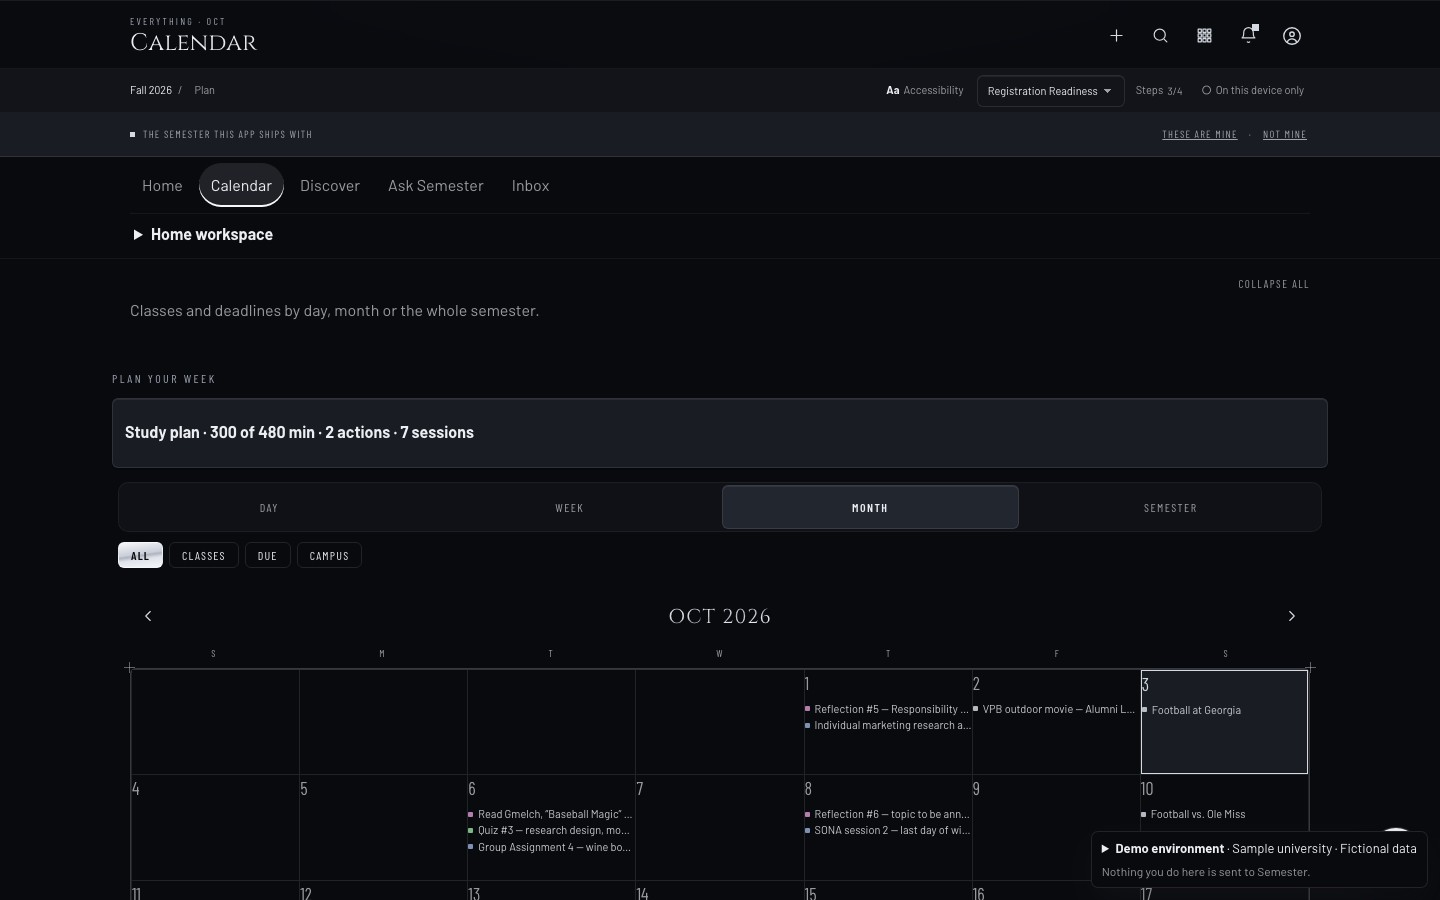
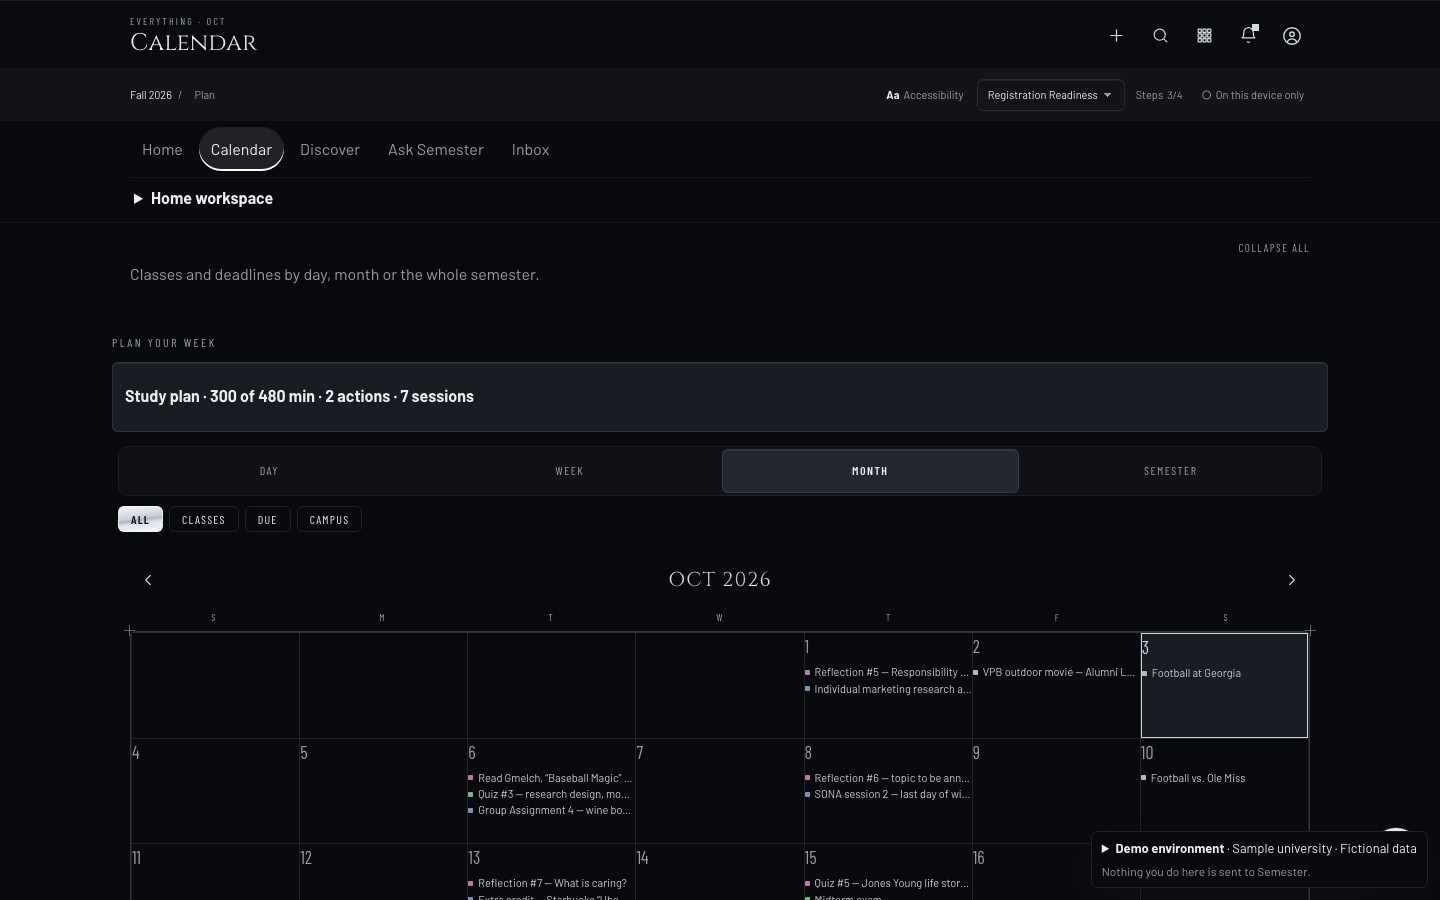
docs(site): recapture current live application

diff --git a/company-site/index.html b/company-site/index.html
@@ -1088,12 +1088,12 @@ footer{background:var(--bg-soft)}
 
   <section class="blk rule" id="proof-walkthrough" aria-labelledby="proof-walkthrough-h">
     <div class="wrap">
-      <div class="sec-head"><p class="eyebrow">Product proof · about 90 seconds</p><h2 id="proof-walkthrough-h">Six current screens. One clear academic workspace.</h2><p class="lede">Tour the public fictional-data demo as it appears today, from Home through Discover.</p></div>
+      <div class="sec-head"><p class="eyebrow">Product proof · about 90 seconds</p><h2 id="proof-walkthrough-h">Six current screens. One clear academic workspace.</h2><p class="lede">Tour the public fictional-data demo as it appears today, from semester-wide search through Discover.</p></div>
       <div class="proof-rail">
-        <article class="proof-step"><span class="k">01 · HOME</span><h3>Start with the semester</h3><p>Current courses, progress and navigation share one calm overview.</p></article>
+        <article class="proof-step"><span class="k">01 · SEARCH</span><h3>Search the semester</h3><p>Discover opens with a semester-wide search and shortcuts to current tools.</p></article>
         <article class="proof-step"><span class="k">02 · TODAY</span><h3>Choose what helps now</h3><p>Semester makes the next useful action visible without hiding context.</p></article>
         <article class="proof-step"><span class="k">03 · COURSES</span><h3>Gather course work</h3><p>Sample courses and their workspaces stay easy to scan.</p></article>
-        <article class="proof-step"><span class="k">04 · CALENDAR</span><h3>See the week together</h3><p>Course meetings and planning blocks sit in one schedule.</p></article>
+        <article class="proof-step"><span class="k">04 · CALENDAR</span><h3>See the month together</h3><p>Course work and planning blocks sit together in the October month view.</p></article>
         <article class="proof-step"><span class="k">05 · MY PATH</span><h3>Check degree direction</h3><p>Student-entered and estimated information stays clearly labelled.</p></article>
         <article class="proof-step"><span class="k">06 · DISCOVER</span><h3>Explore the workspace</h3><p>The app directory shows where planning, learning and campus tools live.</p></article>
       </div>
@@ -1775,25 +1775,25 @@ Which requirement should I finish first?</textarea></label>
     <p class="lede">Six current screens from the public fictional-data demo, captured in a fresh browser with no sign-in or connected account. Move at your own pace or open the same route in the live app.</p>
   </div></section>
   <section class="blk rule" style="padding-top:40px"><div class="wrap">
-    <div style="display:flex;justify-content:space-between;align-items:center;gap:12px;flex-wrap:wrap"><h2 id="xp-scn" style="font-size:clamp(24px,3vw,34px)">Start with Home</h2><span class="src demo">Public fictional-data demo · no private student records</span></div>
+    <div style="display:flex;justify-content:space-between;align-items:center;gap:12px;flex-wrap:wrap"><h2 id="xp-scn" style="font-size:clamp(24px,3vw,34px)">Search the semester</h2><span class="src demo">Public fictional-data demo · no private student records</span></div>
     <div class="xp">
       <ol class="xp-steps" id="xp-list"></ol>
       <div>
         <figure class="product-preview walkthrough-capture" aria-labelledby="xp-step-title xp-caption">
-          <picture id="xp-picture" data-capture-pair><source id="xp-source" media="(max-width:600px)" srcset="/screenshots/search-mobile.jpg" width="390" height="845"><img id="xp-shot" src="/screenshots/search-desktop.jpg" alt="Semester Home showing the current public sample semester overview" width="1440" height="900" loading="eager" decoding="async"></picture>
+          <picture id="xp-picture" data-capture-pair><source id="xp-source" media="(max-width:600px)" srcset="/screenshots/search-mobile.jpg" width="390" height="845"><img id="xp-shot" src="/screenshots/search-desktop.jpg" alt="Semester Discover search showing the current launcher and application shortcuts" width="1440" height="900" loading="eager" decoding="async"></picture>
           <figcaption id="xp-caption">Captured Oct 3, 2026 · Public fictional-data demo. <a id="xp-full" href="/screenshots/search-desktop.jpg" target="_blank" rel="noopener">View full-size capture ↗</a></figcaption>
         </figure>
-        <div class="box" id="xp-step-details" aria-live="polite" aria-atomic="true" style="margin-top:18px"><h3 id="xp-step-title" style="font-size:22px">Start with Home</h3><p class="muted" id="xp-step-description" style="margin-top:6px">See sample courses, academic progress and the current app navigation in one overview.</p><p style="margin-top:12px"><a class="link" id="xp-live" href="https://harrisonjrubin7-cmyk.github.io/semester/demo/#/search" target="_blank" rel="noopener">Open this screen in the live fictional-data demo ↗</a></p></div>
+        <div class="box" id="xp-step-details" aria-live="polite" aria-atomic="true" style="margin-top:18px"><h3 id="xp-step-title" style="font-size:22px">Search the semester</h3><p class="muted" id="xp-step-description" style="margin-top:6px">Use Discover's semester-wide search or open a current application shortcut.</p><p style="margin-top:12px"><a class="link" id="xp-live" href="https://harrisonjrubin7-cmyk.github.io/semester/demo/#/search" target="_blank" rel="noopener">Open this screen in the live fictional-data demo ↗</a></p></div>
         <div class="xp-nav"><button class="btn btn-ghost btn-sm" type="button" id="xp-prev">← Previous</button><span class="fine" id="xp-count" style="align-self:center"></span><button class="btn btn-primary btn-sm" type="button" id="xp-next">Next step →</button></div>
         <div class="box" id="xp-end" hidden style="margin-top:18px"><h3 style="font-size:22px">That is the current Semester workspace.</h3><p class="muted" style="margin-top:6px" id="xp-end-p">You toured six real screens using public sample data. The live demo lets you explore them without an account.</p><div class="ctas" style="margin-top:14px"><a class="btn btn-primary btn-sm" id="xp-cta" href="https://harrisonjrubin7-cmyk.github.io/semester/demo/" target="_blank" rel="noopener">Explore the live fictional-data demo ↗</a><button class="btn btn-ghost btn-sm" type="button" id="xp-restart">Start over</button></div></div>
       </div>
     </div>
   </div></section>
   <script type="application/json" id="xp-walkthrough-data">[
-    {"id":"search","title":"Start with Home","description":"See sample courses, academic progress and the current app navigation in one overview.","desktop":"/screenshots/search-desktop.jpg","mobile":"/screenshots/search-mobile.jpg","alt":"Semester Home showing the current public sample semester overview","route":"https://harrisonjrubin7-cmyk.github.io/semester/demo/#/search"},
+    {"id":"search","title":"Search the semester","description":"Use Discover's semester-wide search or open a current application shortcut.","desktop":"/screenshots/search-desktop.jpg","mobile":"/screenshots/search-mobile.jpg","alt":"Semester Discover search showing the current launcher and application shortcuts","route":"https://harrisonjrubin7-cmyk.github.io/semester/demo/#/search"},
     {"id":"today","title":"Choose what helps today","description":"Review the current suggestions and choose the academic action that is most useful now.","desktop":"/screenshots/today-desktop.jpg","mobile":"/screenshots/today-mobile.jpg","alt":"Semester Today showing current suggestions and planning actions for sample courses","route":"https://harrisonjrubin7-cmyk.github.io/semester/demo/#/home"},
     {"id":"courses","title":"Gather course work","description":"Scan the public sample course list and move into the workspace for each class.","desktop":"/screenshots/courses-desktop.jpg","mobile":"/screenshots/courses-mobile.jpg","alt":"Semester Courses showing the current list of public sample university courses","route":"https://harrisonjrubin7-cmyk.github.io/semester/demo/#/courses"},
-    {"id":"calendar","title":"See the week together","description":"View sample class meetings and planning blocks together in the current calendar.","desktop":"/screenshots/calendar-desktop.jpg","mobile":"/screenshots/calendar-mobile.jpg","alt":"Semester Calendar showing the current weekly schedule for public sample courses","route":"https://harrisonjrubin7-cmyk.github.io/semester/demo/#/calendar"},
+    {"id":"calendar","title":"See the month together","description":"View sample course work and planning blocks together in the October month grid.","desktop":"/screenshots/calendar-desktop.jpg","mobile":"/screenshots/calendar-mobile.jpg","alt":"Semester Calendar showing the October 2026 month grid for public sample courses","route":"https://harrisonjrubin7-cmyk.github.io/semester/demo/#/calendar"},
     {"id":"path","title":"Check degree direction","description":"Review degree progress while student-entered information and estimates remain visibly labelled.","desktop":"/screenshots/path-desktop.jpg","mobile":"/screenshots/path-mobile.jpg","alt":"Semester My Path showing current degree progress with student-entered and estimated labels","route":"https://harrisonjrubin7-cmyk.github.io/semester/demo/#/degree"},
     {"id":"discover","title":"Explore the workspace","description":"Browse the current app directory to find planning, learning and campus tools.","desktop":"/screenshots/discover-desktop.jpg","mobile":"/screenshots/discover-mobile.jpg","alt":"Semester Discover showing the current directory of planning and learning applications","route":"https://harrisonjrubin7-cmyk.github.io/semester/demo/#/directory"}
   ]</script>

diff --git a/app/src/lib/companysitescreenshots.test.ts b/app/src/lib/companysitescreenshots.test.ts
@@ -192,11 +192,11 @@ describe('the company site shows captured current application screens', () => {
     expect(Number.isFinite(Date.parse(proof.capturedAt))).toBe(true);
     expect(proof.captureDateLabel).toBe('Oct 3, 2026 (America/Chicago)');
     expect(proof.appSourceCommit).toMatch(/^[a-f0-9]{40}$/);
-    expect(proof.appSourceCommit).toBe('92eeafd9d04d3ca5971819cff441bba19dac9adc');
+    expect(proof.appSourceCommit).toBe('a1504691a60af3499803d0e9fd38fa1cb4ea7ec9');
     expect(proof.appDeploymentCommit).toBe(proof.appSourceCommit);
-    expect(proof.appDeploymentRun).toBe('https://github.com/harrisonjrubin7-cmyk/semester/actions/runs/37106520032');
-    expect(proof.deploymentVerification.expectedFixPresent).toContain('min-height: 44px');
-    expect(proof.deploymentVerification.supersededRuleAbsent).toContain('min-height: 0');
+    expect(proof.appDeploymentRun).toBe('https://github.com/harrisonjrubin7-cmyk/semester/actions/runs/37114132948');
+    expect(proof.deploymentVerification.expectedFixPresent).toMatch(/min-height:\s*44px/);
+    expect(proof.deploymentVerification.supersededRuleAbsent).toMatch(/min-height:\s*0/);
     expect(proof.deploymentVerification.serviceWorkerState).toMatch(/brand-new browser profile/i);
     expect(proof.captureMode).toBe('isolated-demo');
     expect(proof.sampleData).toBe(true);
@@ -251,6 +251,13 @@ describe('the company site shows captured current application screens', () => {
       expect(existsSync(capturePath(step.desktop))).toBe(true);
       expect(existsSync(capturePath(step.mobile))).toBe(true);
     }
+
+    expect(steps[0]).toMatchObject({ id: 'search', title: expect.stringMatching(/search/i) });
+    expect(`${steps[0].description} ${steps[0].alt}`).toMatch(/Discover/i);
+    expect(`${steps[0].title} ${steps[0].description} ${steps[0].alt}`).not.toMatch(/course progress|academic progress|Home showing/i);
+    expect(steps[3]).toMatchObject({ id: 'calendar', title: expect.stringMatching(/month/i) });
+    expect(`${steps[3].description} ${steps[3].alt}`).toMatch(/month/i);
+    expect(`${steps[3].title} ${steps[3].alt}`).not.toMatch(/week|weekly/i);
 
     expect(experience?.textContent).toContain('public fictional-data demo');
     expect(experience?.textContent).toContain('Captured Oct 3, 2026');
